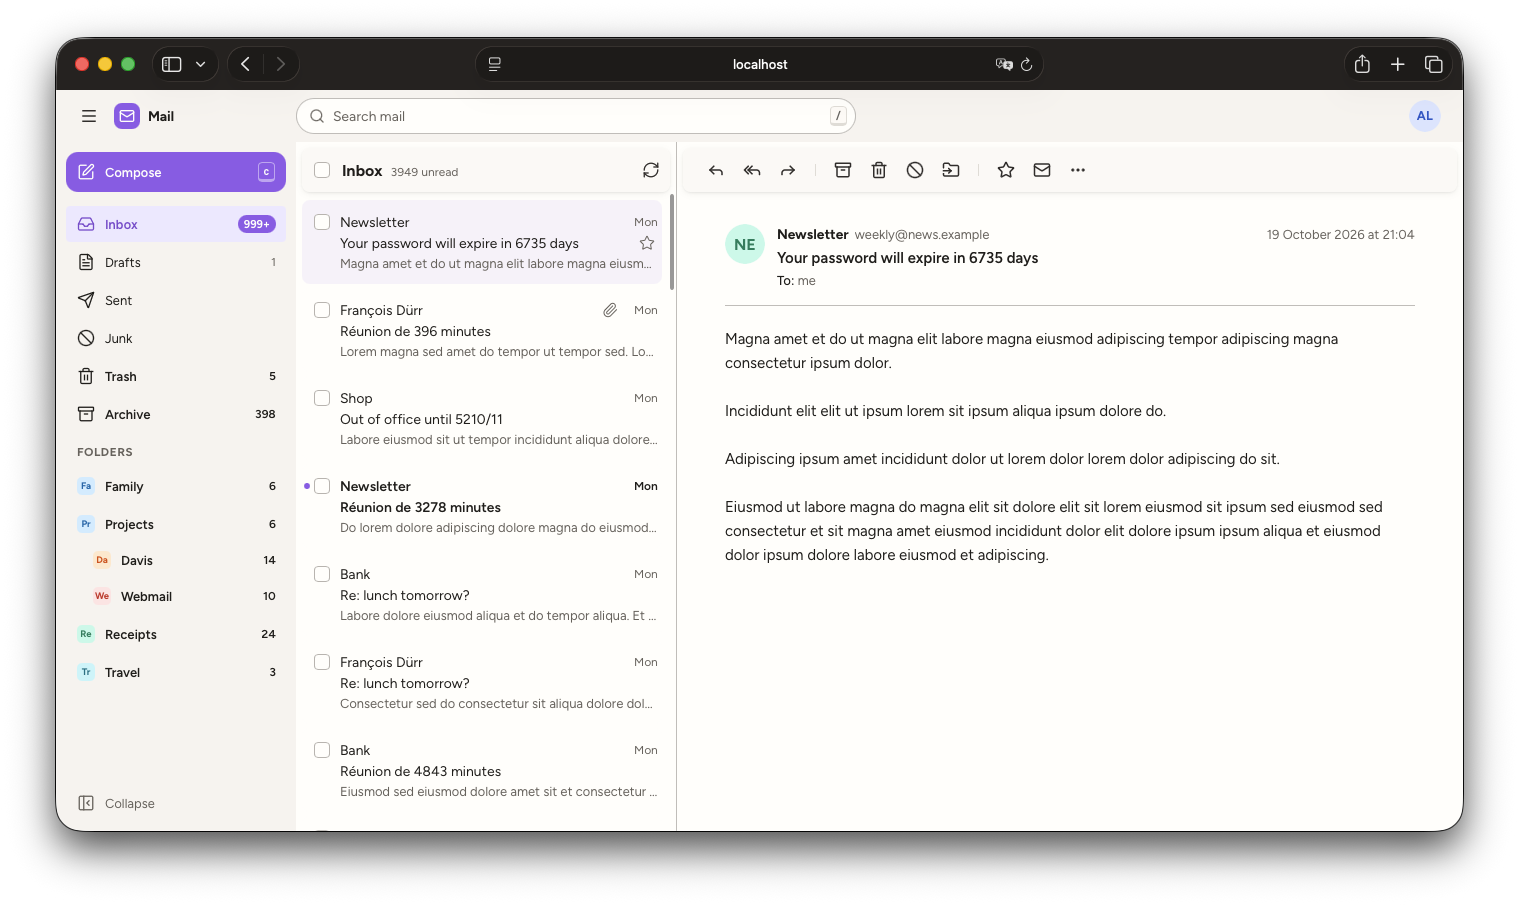
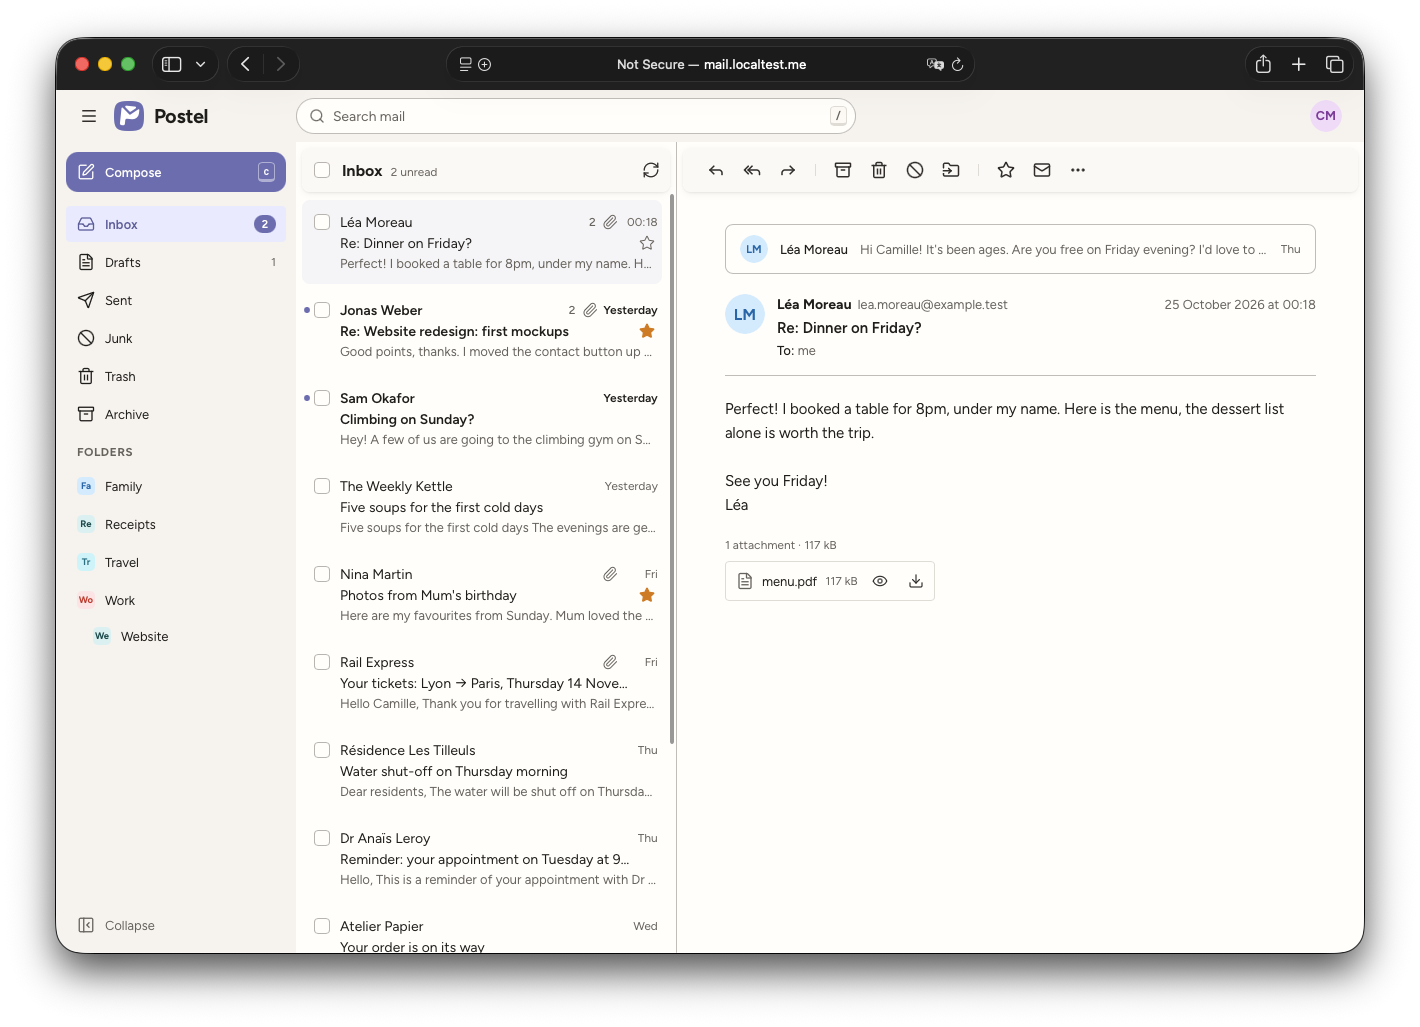
[Docs] New screenshots, with the demo mailbox

Changed region(s): [[0.031, 0.0309, 0.9915, 0.9591], [0.5887, 0.1547, 0.7437, 0.1856], [0.4338, 0.1547, 0.4648, 0.1856]]

diff --git a/README.md b/README.md
@@ -50,9 +50,11 @@ Comes as one Docker image (php-fpm and Caddy) for `amd64` and `arm64`, with a sa
 ![Search across folders](_screenshots/search.png)
 ![Writing a message, with recipient suggestions](_screenshots/compose.png)
 
-| Dark mode | Search and command palette |
-|-----------|----------------------------|
-| ![Dark mode](_screenshots/dark.png) | ![Search and command palette](_screenshots/palette.png) |
+| Dark mode | Command palette |
+|-----------|-----------------|
+| ![Dark mode](_screenshots/dark.png) | ![Command palette](_screenshots/palette.png) |
+| **Settings** | **Jump to a folder** |
+| ![Settings](_screenshots/settings.png) | ![Jump to a folder, in dark mode](_screenshots/palette-dark.png) |
 
 # 🔩 Requirements
 
